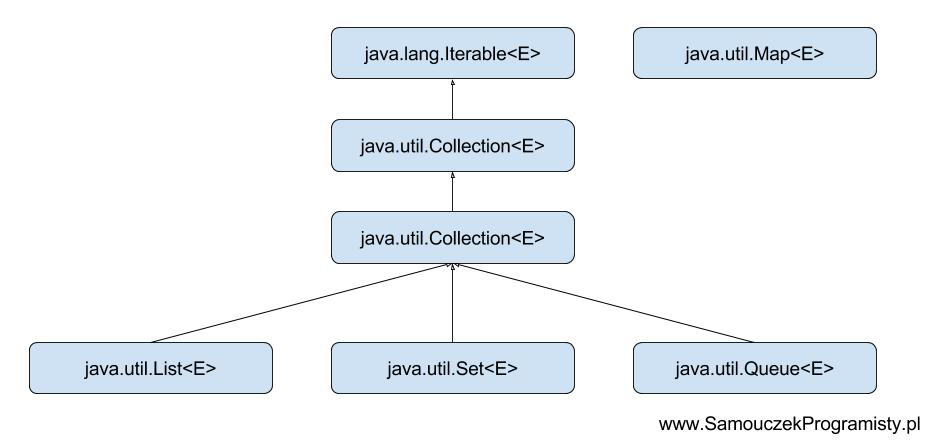
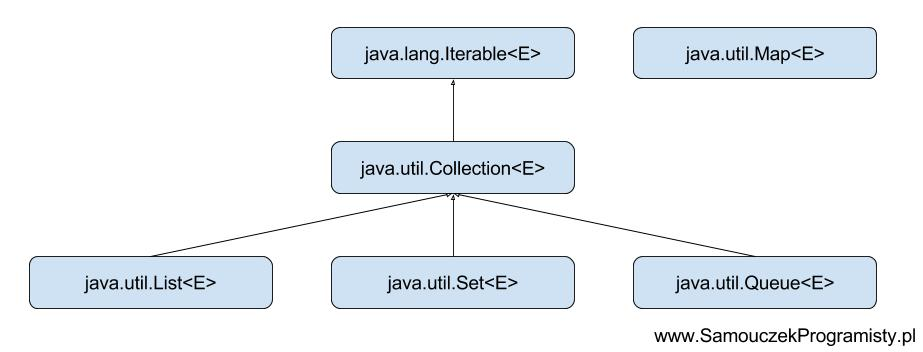
Small modification in an article about collections

diff --git a/_posts/2016-08-09-kolekcje-w-jezyku-java.md b/_posts/2016-08-09-kolekcje-w-jezyku-java.md
@@ -27,7 +27,7 @@ Kolekcje to implementacje tak zwanych struktur danych. O przykładowych implemen
 
 ## Hierarchia dziedziczenia
 
-Kolekcje w standardowej bibliotece Javy implementują różne interfejsy, poniższy diagram pokazuje hierarchię dziedziczenia dla podstawowych typów kolekcji dostępnych w Javie. Każdy z tych interfejsów ma kilka implementacji, których używa się w różnych sytuacjach.
+Kolekcje w standardowej bibliotece Javy implementują różne interfejsy, poniższy diagram pokazuje hierarchię dziedziczenia interfejsów dla podstawowych typów kolekcji dostępnych w Javie. Każdy z tych interfejsów ma kilka implementacji, których używa się w różnych sytuacjach.
 
 {% include figure image_path="/assets/images/2016/08/09_kolekcje_dziedziczenie.jpg" caption="Dziedziczenie kolekcji w języku Java." %}
 
